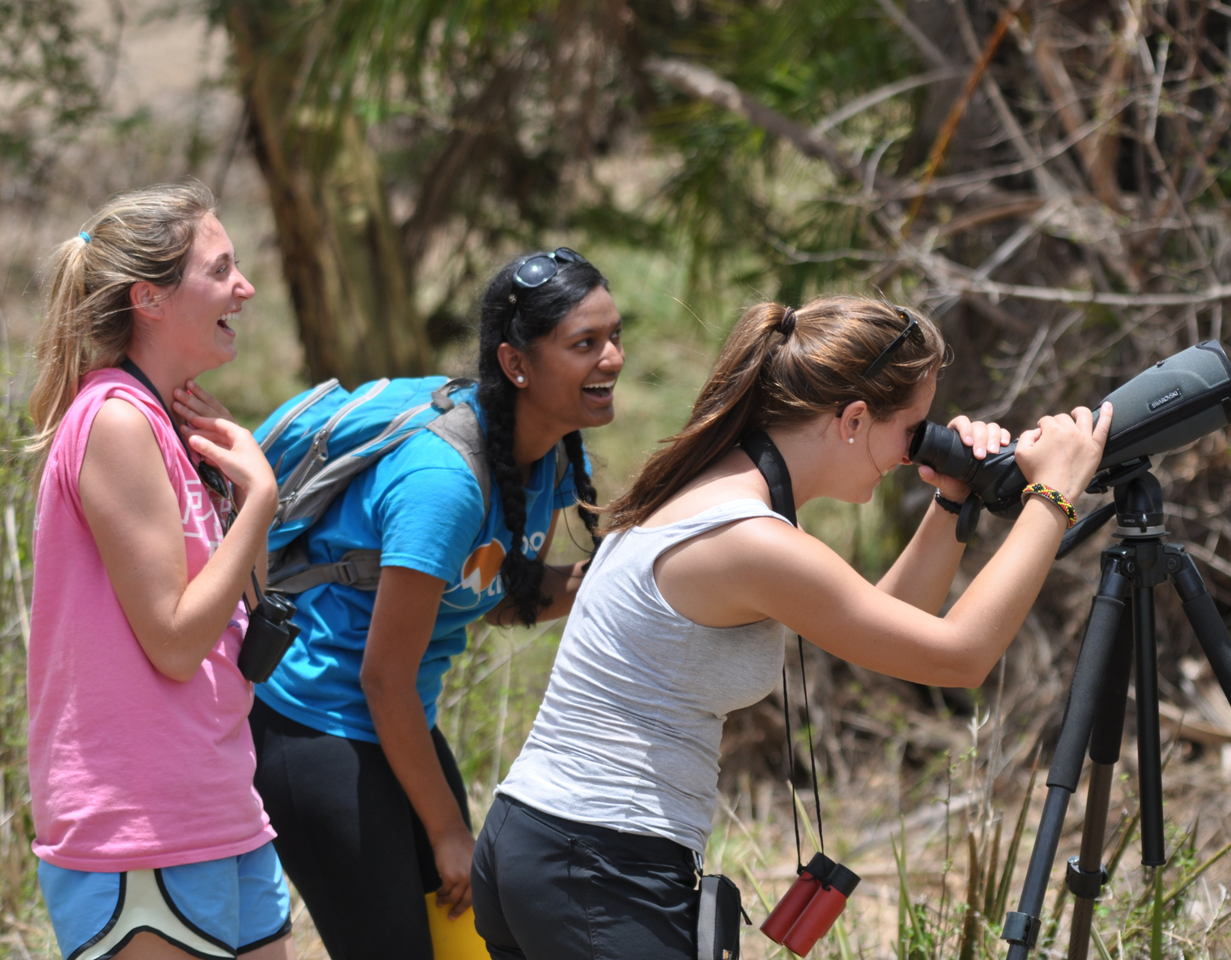
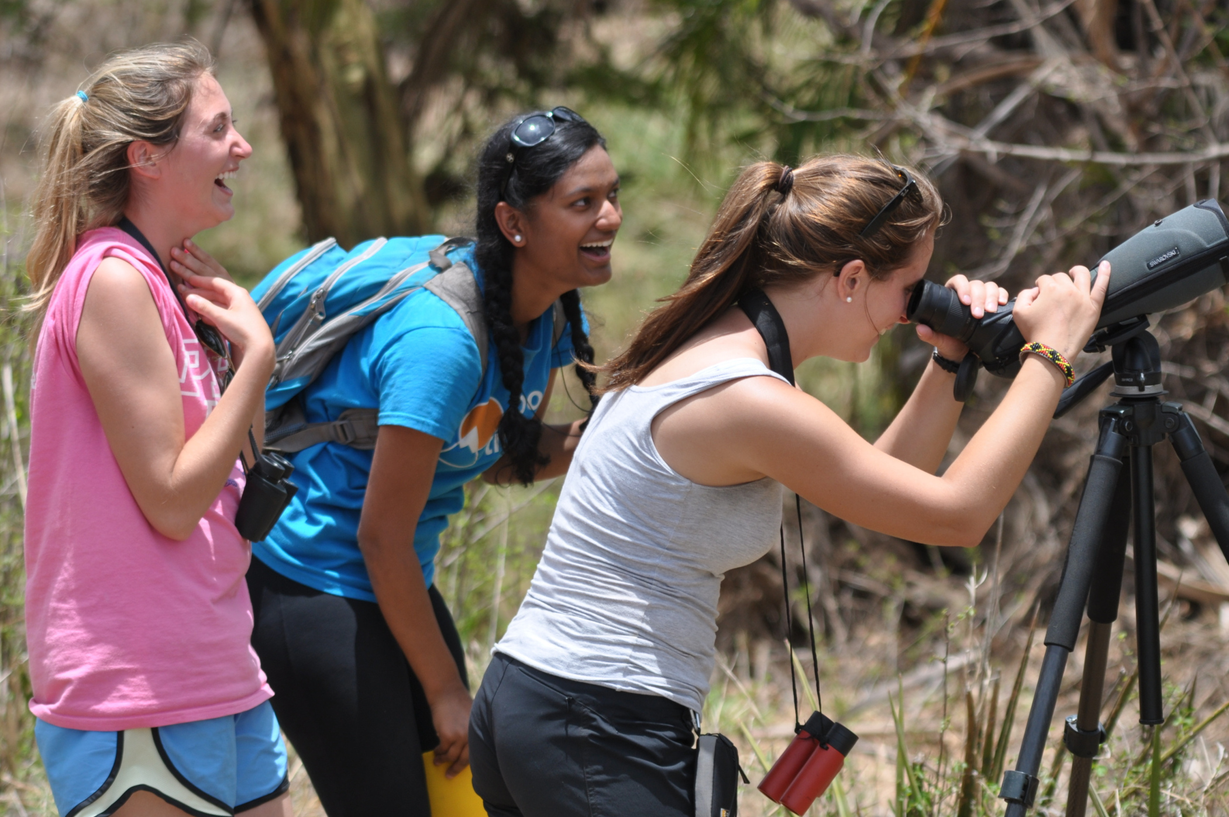
still working on this image thing

diff --git a/_pages/teaching.md b/_pages/teaching.md
@@ -15,7 +15,7 @@ Due to my extensive and irregular field schedule over the past 9 years, I have b
 ## Teaching
 Most of what I know about nature I learned in the field or from a tome on natural history. But most of how I think about the natural world I learned from my physicist father. The natural sciences taught me to scaffold my knowledge of natural history in the context of larger frameworks—evolution, biogeography, Earth science, physics—that transform a tangled bank of facts and observations into a beautiful and coherent picture of how life on Earth operates. As a teacher, my goal is to introduce and cement this mode of thinking for students who grew up with neither binocular-strap tans nor dinner-table physics talk. 
 
-<img align="right" src="images/bird-id-is-fun.jpg">
+<img align="right" src="images/bio-photo.jpg"/>
 
 Five principles summarize my overall approach:
 1. **Get outside**
